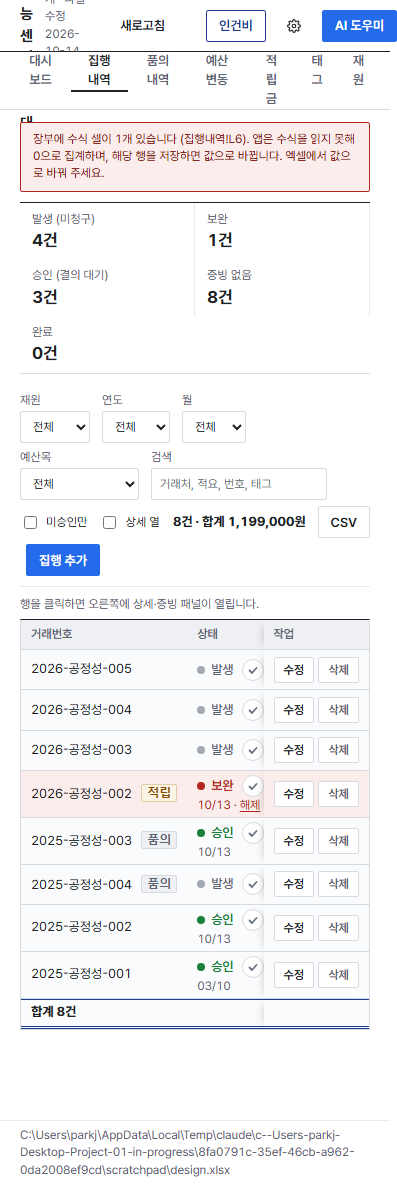
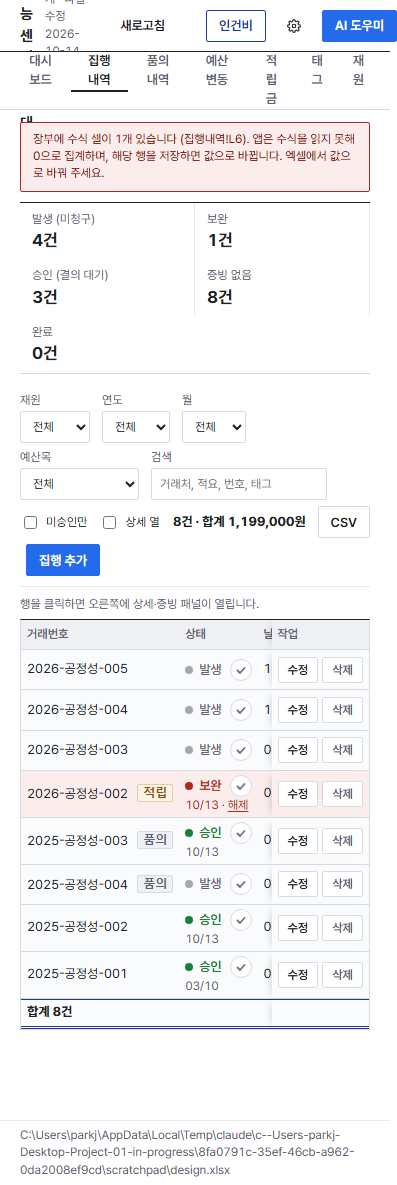
표 열 간격 축소: 셀 좌우 여백 10→6px, 적요·긴 셀 최소폭 축소

diff --git a/app/static/style.css b/app/static/style.css
@@ -107,11 +107,11 @@ input:disabled, select:disabled, textarea:disabled { background: var(--bg-head);
 .table-wrap { overflow: auto; background: var(--bg-table); border: 1px solid var(--rule); border-top: 1px solid var(--ink); max-height: calc(100vh - 290px); position: relative; }
 .table-wrap.scrollable::after { content: ""; position: absolute; top: 0; right: 0; bottom: 0; width: 16px; pointer-events: none; background: linear-gradient(to right, rgba(250,251,252,0), rgba(30,33,36,.10)); }
 table.grid { border-collapse: separate; border-spacing: 0; width: 100%; font-size: 13px; }
-table.grid th, table.grid td { border-bottom: 1px solid var(--rule); padding: 0 10px; height: var(--row); text-align: left; vertical-align: middle; white-space: nowrap; line-height: 1.3; }
+table.grid th, table.grid td { border-bottom: 1px solid var(--rule); padding: 0 6px; height: var(--row); text-align: left; vertical-align: middle; white-space: nowrap; line-height: 1.3; }
 table.grid th { background: var(--bg-head); position: sticky; top: 0; z-index: 2; font-weight: 600; color: var(--ink-2); font-size: 12px; border-bottom: 1px solid var(--rule); }
 table.grid td.num, table.grid th.num { text-align: right; }
 table.grid td.amt, table.grid th.amt { border-left: 2px solid var(--margin); }
-table.grid td.wrap { white-space: nowrap; overflow: hidden; text-overflow: ellipsis; max-width: 260px; min-width: 120px; }
+table.grid td.wrap { white-space: nowrap; overflow: hidden; text-overflow: ellipsis; max-width: 260px; min-width: 100px; }
 table.grid td.wrap:hover { white-space: normal; overflow: visible; }
 table.grid tbody tr { transition: background-color .12s ease-out; }
 table.grid tbody tr:hover td { background: var(--bg-hover); }
@@ -406,7 +406,7 @@ body:not([data-tab="exec"]) #alert.formula, body.labor-mode #alert.formula { dis
 
 /* 집행내역: 적요+거래처 두 줄, 40px 행, 결의 상태 */
 #exec-table tbody td { height: 40px; }
-table.grid td.tit { line-height: 1.25; padding-top: 4px; padding-bottom: 4px; max-width: 320px; min-width: 160px; }
+table.grid td.tit { line-height: 1.25; padding-top: 4px; padding-bottom: 4px; max-width: 320px; min-width: 140px; }
 table.grid td.tit .t { white-space: nowrap; overflow: hidden; text-overflow: ellipsis; }
 table.grid td.tit .s { font-size: 12px; color: var(--ink-2); white-space: nowrap; overflow: hidden; text-overflow: ellipsis; }
 table.grid td.tit:hover .t, table.grid td.tit:hover .s { white-space: normal; }

diff --git a/app/DESIGN.md b/app/DESIGN.md
@@ -255,7 +255,7 @@ components:
 - 고정폭 없는 전폭 레이아웃. `main`은 가로 20px, 위 12px, 아래 90px 여백을 두고 남은 높이를 모두 쓴다. 대상 뷰포트는 1366~1920, 모바일 비대상.
 - 위에서 아래로: 헤더 52px(먹색 1px 하단선) → 탭 줄 40px(활성 탭 먹색 2px 밑줄, 회색 1px 하단선) → [빠른 필터 타일 띠] → 툴바(플렉스, 간격 6×12px, 아래 옅은 괘선) → 표.
 - 표 래퍼는 `max-height: calc(100vh - 290px)`. 표는 데이터 행만큼만 그리고 합계 이중선에서 끝난다(빈 괘선으로 화면을 채우지 않음, 사용자 결정 2026-10-13). 머리글은 `position: sticky; top: 0`, 작업 열은 `right: 0` 고정. 가로 넘침 시 우측 16px 그림자 힌트 그라데이션.
-- 행 높이 30px(`--row`), 압축 표 26px. 셀 여백 `0 10px`. 적요 등 긴 셀은 120~260px에서 말줄임, hover 시 펼침.
+- 행 높이 30px(`--row`), 압축 표 26px. 셀 여백 `0 6px`(2026-10-14 사용자 요청으로 10→6). 적요 등 긴 셀은 100~260px에서 말줄임, hover 시 펼침.
 - 요약 띠 `.cards`: `repeat(auto-fit, minmax(150px, 1fr))`, 간격 0, 위 먹색선·아래 괘선, 셀 사이 옅은 세로 괘선. 카드가 아니라 한 줄 괘선 표.
 - 대시보드(결의) 순서: 필터 줄(합계 한 줄 텍스트) → 예산목별 가용잔액 칸 `.cards.items`(`auto-fill, minmax(200px, 1fr)`, 폭에 따라 2줄 허용; 큰 숫자 18px, 아래 12px 보조 줄과 4px 집행률 막대: 파랑 집행, 먹색-3 품의대기, 초과는 붉은색) → `.two-col.wide`(3fr 2fr: 월별 추이 차트 | 적립금 잔액 표) → 재원별·예산목별 표. 보고서 초안은 AI 드로어 상단 `details.ai-report`로 이동. 사용자 결정 2026-10-13.
 - 2열 블록 `.two-col`: 1fr 1fr, 간격 20px, 1000px 이하에서 1열.
